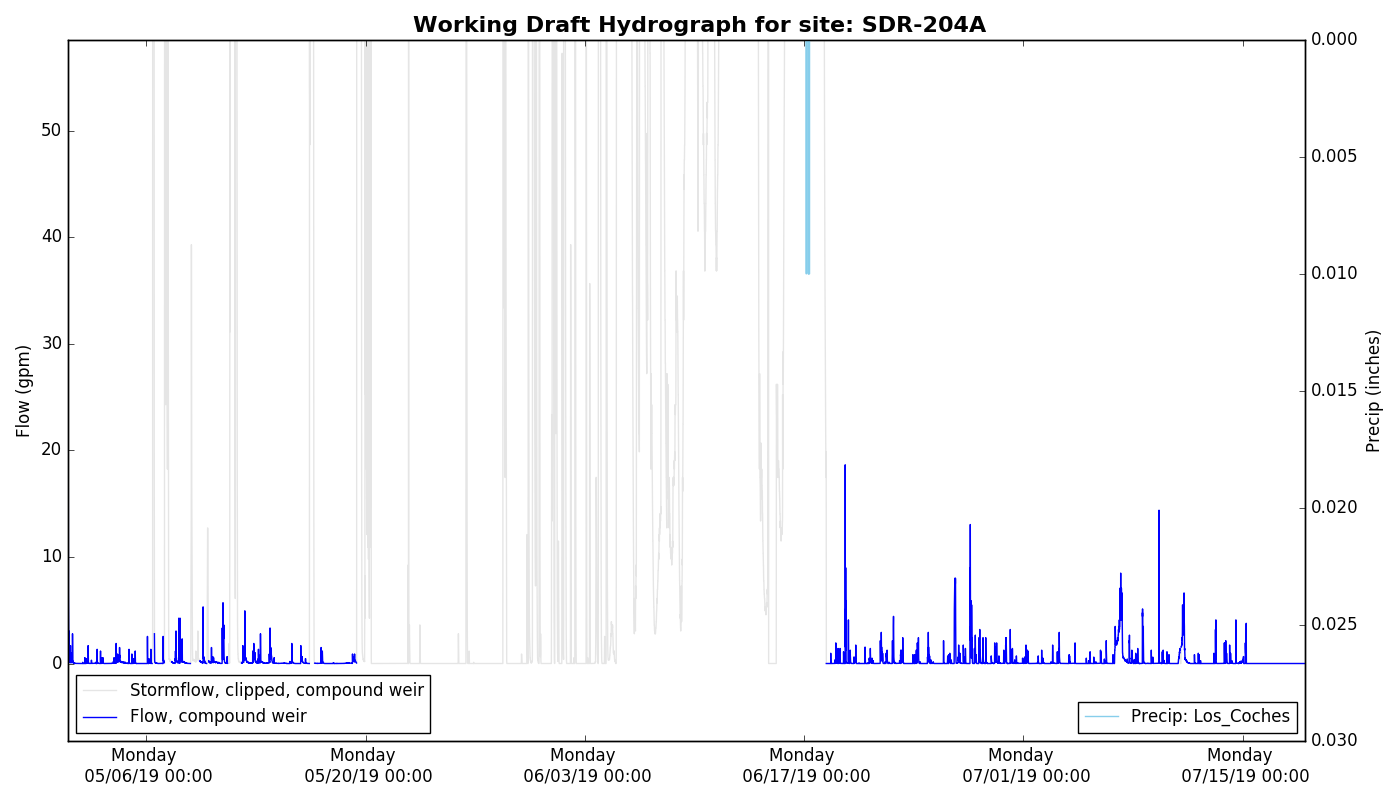
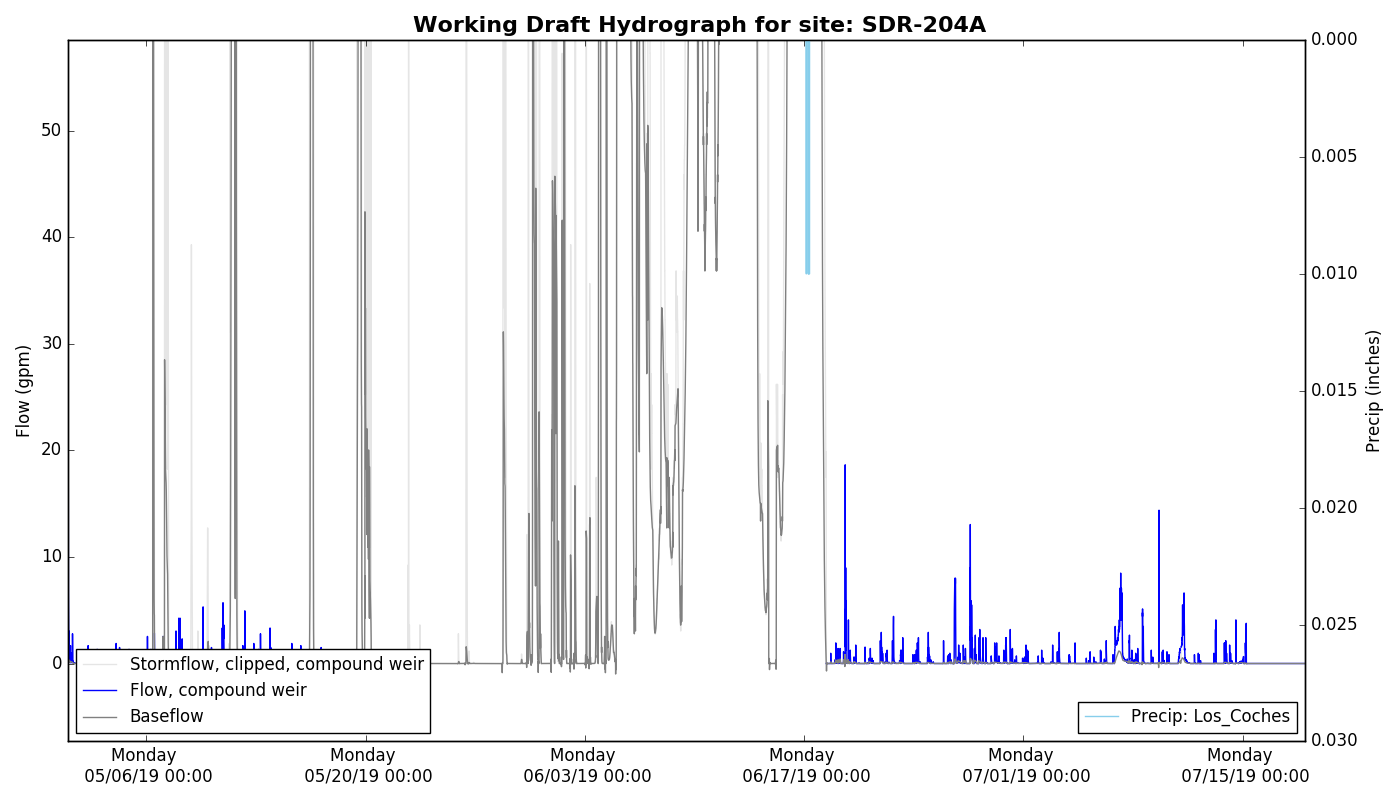
using May 2019 offsets

diff --git a/Python Code/2-Create hydrograph from barocompensated data.py b/Python Code/2-Create hydrograph from barocompensated data.py
@@ -790,18 +790,18 @@ except XLRDError:
     m = pd.notnull(flowoutput['Flow_compound_weir'])
     flowoutput = flowoutput.where(m, np.nan)   
     
-    WL.loc[:,'Baseflow (gpm)'] = flowoutput['Baseflow (gpm)']
-    WL.loc[:,'Peakflow (gpm)'] = flowoutput['Peakflow (gpm)']
+    WL.loc[:,'Baseflow (gpm)'] = flowoutput['Baseflow (gpm)'].round(3)
+    WL.loc[:,'Peakflow (gpm)'] = flowoutput['Peakflow (gpm)'].round(3)
 
 
-#%%
+#%% BASEFLOW PLOT
     ## PLOT
     fig, (ax1,ax2,ax3) = plt.subplots(3,1,figsize=(20,10),sharex=True)
     fig.suptitle(site_name,fontsize=14, fontweight='bold')
     
     ## Flow
     ax1.plot_date(WL.index, WL['Flow_compound_weir'],marker='None',ls='-',label='Orig. Flow Data (gpm)',c='grey')
-    ax1.plot_date(WL.index, WL['Flow compound weir (gpm) smooth'],marker='None',ls='-',label='Smoothed Flow Data (gpm)',c='b')
+    ax1.plot_date(flowoutput.index, flowoutput['Flow compound weir (gpm) smooth'],marker='None',ls='-',label='Smoothed Flow Data (gpm)',c='b')
     ax1.plot_date(WL.index, WL['Baseflow (gpm)'],marker='None',ls='-',label='Baseflow (digital filter='+str(alpha)+')',c='g')
     ax1.set_ylabel('Flow (gpm)',fontweight='bold',fontsize=14)
     ## Spec Conductivity and Water Temp
@@ -849,13 +849,15 @@ except XLRDError:
     Corr_flow = WL[['offset_flow','Flow_compound_weir','Flow_compound_clipped']].round(2)
     Corr_flow.columns = ['Flow (gpm)', 'Flow compound weir (gpm)', 'Flow compound weir stormflow clipped (gpm)']
     
+    ## Add base/peakflow
+    Corr_flow[['Baseflow (gpm)','Peakflow (gpm)']] = WL[['Baseflow (gpm)','Peakflow (gpm)']]
+    
     ## Add temp and conductivity to deliverable
     Corr_flow[u'uS/cm EC'] = WL[u'uS/cm EC'].round(0)
     Corr_flow[u'°F Water Temperature'] = WL[u'°F Water Temperature'].round(1)
     
-    ## Add base/peakflow
-    Corr_flow[['Baseflow (gpm)','Peakflow (gpm)']] = WL[['Baseflow (gpm)','Peakflow (gpm)']]
-
+    
+    ## PIVOT TABLE STUFF
     Corr_flow.loc[:,('Year')] = Corr_flow.index.year
     Corr_flow.loc[:,('Month')] = Corr_flow.index.month
     Corr_flow.loc[:,('Day')] = Corr_flow.index.day
